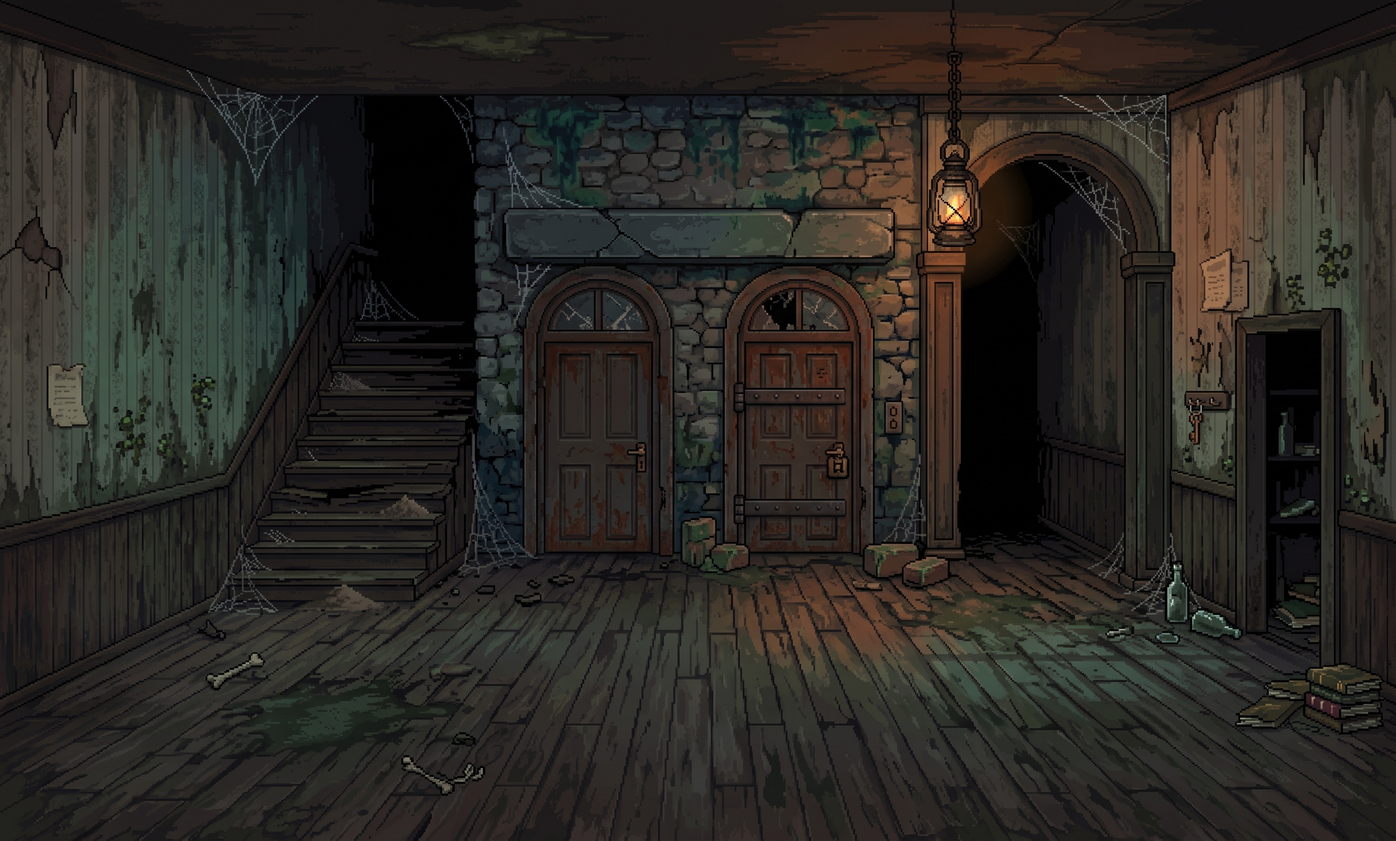
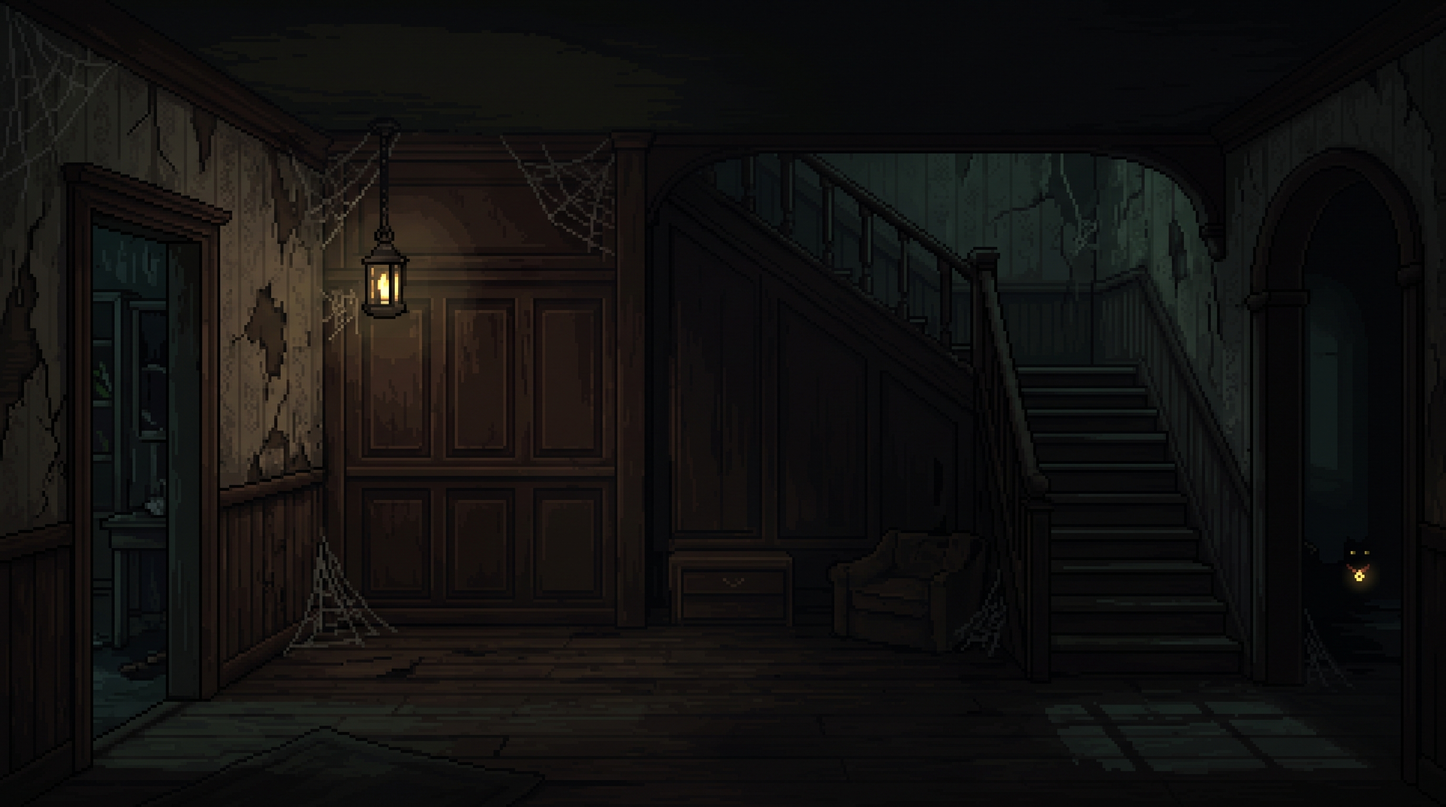
Hice modificaciones en SeleccionPersonajePanel y estoy viendo para cambiar los botones por imagenes

diff --git a/src/Vista/SeleccionPersonajePanel.java b/src/Vista/SeleccionPersonajePanel.java
@@ -1,52 +1,135 @@
 package Vista;
 
 import javax.swing.*;
-import java.awt.Image;
-import java.awt.Graphics;
-import java.awt.Color;
-
+import java.awt.*;
+import java.util.List;
 
 public class SeleccionPersonajePanel extends JPanel {
 
-    private JButton botonHombre;
-    private JButton botonMujer;
-    private Image imagenFondo;
+    // -- ATRIBUTOS --
 
-    public SeleccionPersonajePanel() { // Sin JuegoFrame
+    public record OpcionPersonaje(String nombreMostrado, String genero, String carpetaSprites) {}
 
-        try {
-            java.net.URL url = getClass().getResource("/Recursos/UIMenu/Fondo/imagenSeleccionPersonaje.jpg");
-            if (url != null) {
-                this.imagenFondo = javax.imageio.ImageIO.read(url);
-            }
-        } catch (Exception e) {
-            System.out.println("Error al cargar fondo de selección: " + e.getMessage());
-        }
+    private final List<OpcionPersonaje> opciones = List.of(
+            new OpcionPersonaje("NOMBRE", "Chico", "/Recursos/Sprites/Personajes/Chico/"),
+            new OpcionPersonaje("NOMBRE", "Chica", "/Recursos/Sprites/Personajes/Chica/")
+    );
 
-        botonHombre = new JButton("Hombre");
-        botonMujer = new JButton("Mujer");
+    private int indiceActual = 0;
+    private GestorSprites spritesActual;
 
-        add(botonHombre);
-        add(botonMujer);
+    private BotonJuego botonFlechaIzquierda;
+    private BotonJuego botonFlechaDerecha;
+    private BotonJuego botonIniciarPartida;
+
+    private Timer timerIdle;
+    private double tiempoIdle = 0;
+    private int offsetY = 0;
+
+    // -- CONSTRUCTOR --
+
+    public SeleccionPersonajePanel() {
+        setLayout(null);
+        setBackground(Color.BLACK);
+
+        cargarSpritesOpcion(indiceActual);
+        crearBotones();
+        iniciarAnimacionIdle();
     }
 
+    //-- METODOS--
+
+    private void cargarSpritesOpcion(int indice) {
+        String carpeta = opciones.get(indice).carpetaSprites();
+        spritesActual = new GestorSprites(carpeta);
+    }
+
+    private void crearBotones() {
+        botonFlechaIzquierda = new BotonJuego(
+                "/Recursos/UI/Menu/Botones/flechaIzquierda.png",
+                "/Recursos/UI/Menu/Botones/flechaIzquierdaHover.png"
+        );
+        botonFlechaIzquierda.setBounds(150, 320, 60, 60);
+        botonFlechaIzquierda.addActionListener(e -> cambiarPersonaje(-1));
+
+        botonFlechaDerecha = new BotonJuego(
+                "/Recursos/UI/Menu/Botones/flechaDerecha.png",
+                "/Recursos/UI/Menu/Botones/flechaDerechaHover.png"
+        );
+        botonFlechaDerecha.setBounds(590, 320, 60, 60);
+        botonFlechaDerecha.addActionListener(e -> cambiarPersonaje(1));
+
+        botonIniciarPartida = new BotonJuego(
+                "/Recursos/UI/Menu/Botones/iniciarPartida.png",
+                "/Recursos/UI/Menu/Botones/iniciarPartidaHover.png"
+        );
+        botonIniciarPartida.setBounds(280, 560, 200, 70);
+        // Este sí es una decisión real (arrancar el juego), así que su
+        // ActionListener lo va a registrar ControladorPrincipal, no acá.
+
+        add(botonFlechaIzquierda);
+        add(botonFlechaDerecha);
+        add(botonIniciarPartida);
+    }
+
+    private void cambiarPersonaje(int direccion) {
+        indiceActual = (indiceActual + direccion + opciones.size()) % opciones.size();
+        cargarSpritesOpcion(indiceActual);
+        repaint();
+    }
+
+    private void iniciarAnimacionIdle() {
+        // 10 cuadros por segundo. (tipico de idle)
+        timerIdle = new Timer(100, e -> {
+            cuadroIdleActual++;
+            repaint();
+        });
+        timerIdle.start();
+    }
+
+    // -- METODOS PARA EL CONTROLADO --
+
+    public JButton getBotonIniciarPartida() { return botonIniciarPartida; }
+
+    public String getGeneroSeleccionado() {
+        return opciones.get(indiceActual).genero();
+    }
+
+    public String getNombreSeleccionado() {
+        return opciones.get(indiceActual).nombreMostrado();
+    }
 
     @Override
     protected void paintComponent(Graphics g) {
         super.paintComponent(g);
-        if (imagenFondo != null) {
-            // Dibuja la imagen cubriendo todo el tamaño de la ventana
-            g.drawImage(imagenFondo, 0, 0, getWidth(), getHeight(), this);
-        } else {
-            // Fondo oscuro de respaldo por si no cargó
-            g.setColor(Color.BLACK);
-            g.fillRect(0, 0, getWidth(), getHeight());
+        Graphics2D g2 = (Graphics2D) g;
+
+        g2.setColor(new Color(230, 160, 60));
+        g2.setFont(new Font("Arial", Font.BOLD, 42));
+        g2.drawString("Character Select", getWidth() / 2 - 190, 80);
+
+        int cartaAncho = 260, cartaAlto = 340;
+        int cartaX = getWidth() / 2 - cartaAncho / 2;
+        int cartaY = 180;
+        g2.setColor(new Color(235, 190, 70));
+        g2.fillRoundRect(cartaX, cartaY, cartaAncho, cartaAlto, 20, 20);
+        g2.setColor(new Color(160, 100, 40));
+        g2.setStroke(new BasicStroke(4));
+        g2.drawRoundRect(cartaX, cartaY, cartaAncho, cartaAlto, 20, 20);
+
+        g2.setColor(Color.WHITE);
+        g2.setFont(new Font("Arial", Font.BOLD, 22));
+        String nombre = getNombreSeleccionado();
+        g2.drawString(nombre, getWidth() / 2 - nombre.length() * 6, cartaY + 40);
+
+        if (spritesActual != null) {
+            var sprite = spritesActual.obtenerCuadroIdle(cuadroIdleActual);
+            if (sprite != null) {
+                int spriteAncho = 120, spriteAlto = 120;
+                int spriteX = getWidth() / 2 - spriteAncho / 2;
+                int spriteY = cartaY + 90;
+                g2.drawImage(sprite, spriteX, spriteY, spriteAncho, spriteAlto, this);
+            }
         }
     }
-
-    public JButton getBotonHombre() { return botonHombre; }
-    public JButton getBotonMujer() { return botonMujer; }
 }
-
-
-

diff --git a/src/Vista/GestorSprites.java b/src/Vista/GestorSprites.java
@@ -13,6 +13,7 @@ public class GestorSprites {
     //Guarda una imagen para cada estado del personaje
 
     private final Map<EstadoPersonaje, BufferedImage> sprites = new EnumMap<>(EstadoPersonaje.class);
+    private BufferedImage [] cuadrosIdle;
 
     public GestorSprites(String carpetaBase) {
         if (!carpetaBase.endsWith("/")) {
@@ -42,4 +43,53 @@ public class GestorSprites {
     public BufferedImage obtener(EstadoPersonaje estado) {
         return sprites.get(estado);
     }
+
+    private void cargarSpritesheetIdle (String ruta) {
+        try {
+            BufferedImage hoja = Image.IO.read(getClass().getResourceAsStream(ruta));
+            int columnas = 4, filas = 4;
+            int anchoCuadro = hoja.getWidth() / columnas;
+            int altoCuadro = hoja.getHeight() / filas;
+
+            cuadrosIdle = new BufferedImage[columnas * filas];
+            int indice = 0;
+            for (int fila = 0; fila < filas; fila++) {
+                for (int col = 0; col < columnas; col++) {
+                    cuadrosIdle[indice] = hoja.getSubimage(
+                            col * anchoCuadro, fila * altoCuadro, anchoCuadro, altoCuadro
+                    );
+                    indice++;
+                }
+            }
+        } catch (IOException | IllegalArgumentException e) {
+            System.out.println("No se pudo cargar el spritesheet idle: " + e.getMessage());
+            cuadrosIdle = null;
+        }
+    }
+
+    // getSubImage --> metodo de BufferedImage que recorta un rectangulo especifico de una imagen mas grande
+    // devolviendo una imagen mas chica.
+
+    private void cargarFijo(EstadoPersonaje estado, String ruta) {
+        try {
+            spritesFijos.put(estado, ImageIO.read(getClass().getResourceAsStream(ruta)));
+        } catch (Exception e) {
+            System.out.println("No se pudo cargar " + estado + ": " + e.getMessage());
+        }
+    }
+
+    // Devuelve el cuadro de idle correspondiente según el tiempo transcurrido
+    public BufferedImage obtenerCuadroIdle(int indiceCuadro) {
+        if (cuadrosIdle == null) return null;
+        return cuadrosIdle[indiceCuadro % cuadrosIdle.length];
+    }
+
+    public int getCantidadCuadrosIdle() {
+        return cuadrosIdle != null ? cuadrosIdle.length : 0;
+    }
+
+    public BufferedImage obtener(EstadoPersonaje estado) {
+        return spritesFijos.get(estado);
+    }
+}
 }
